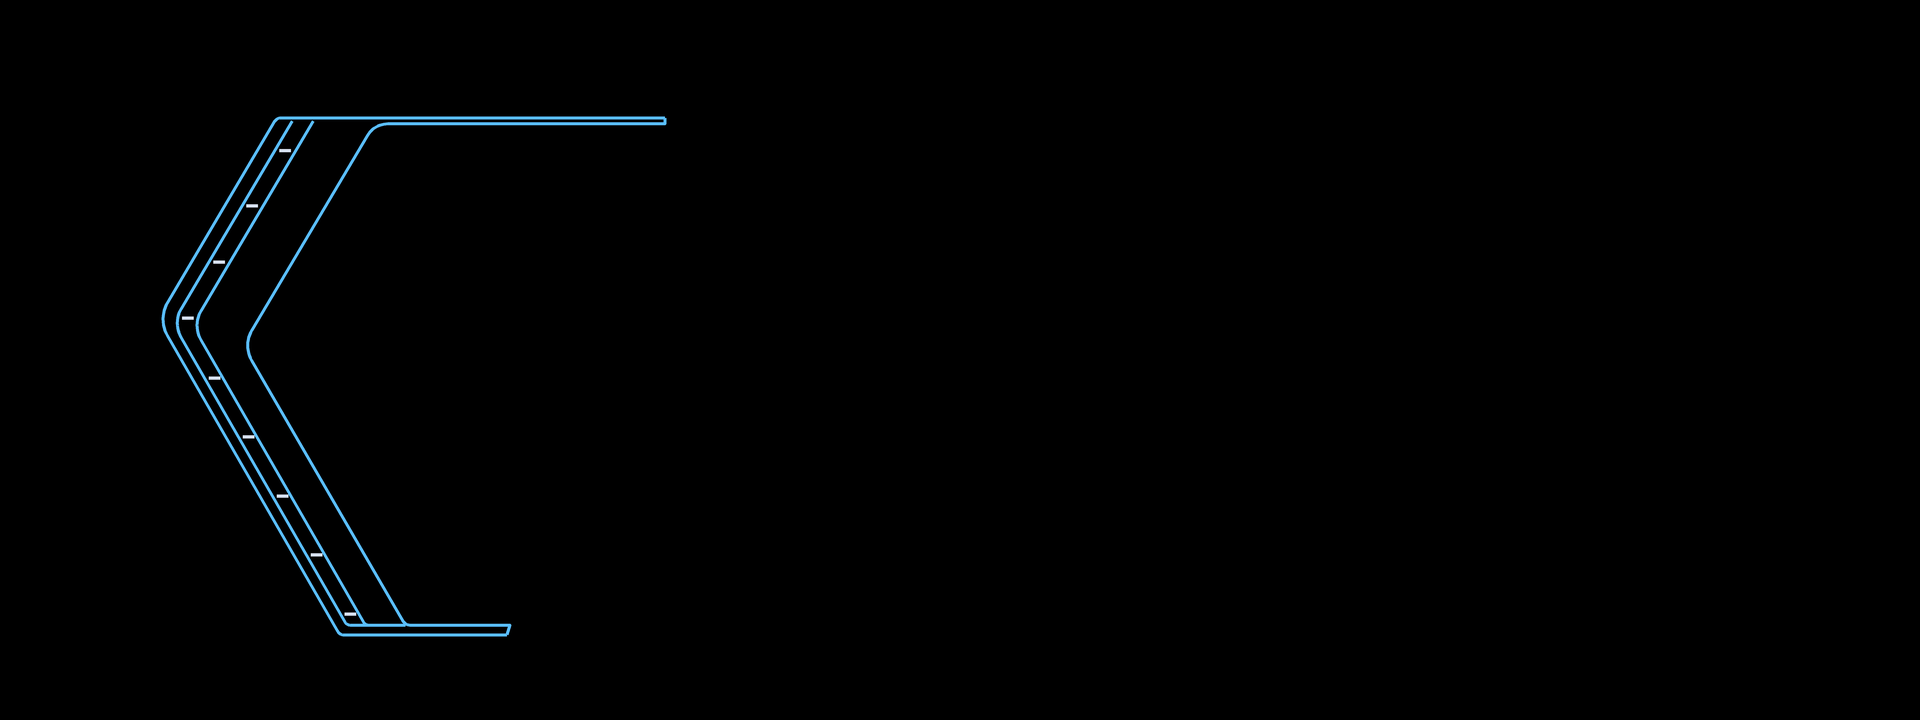
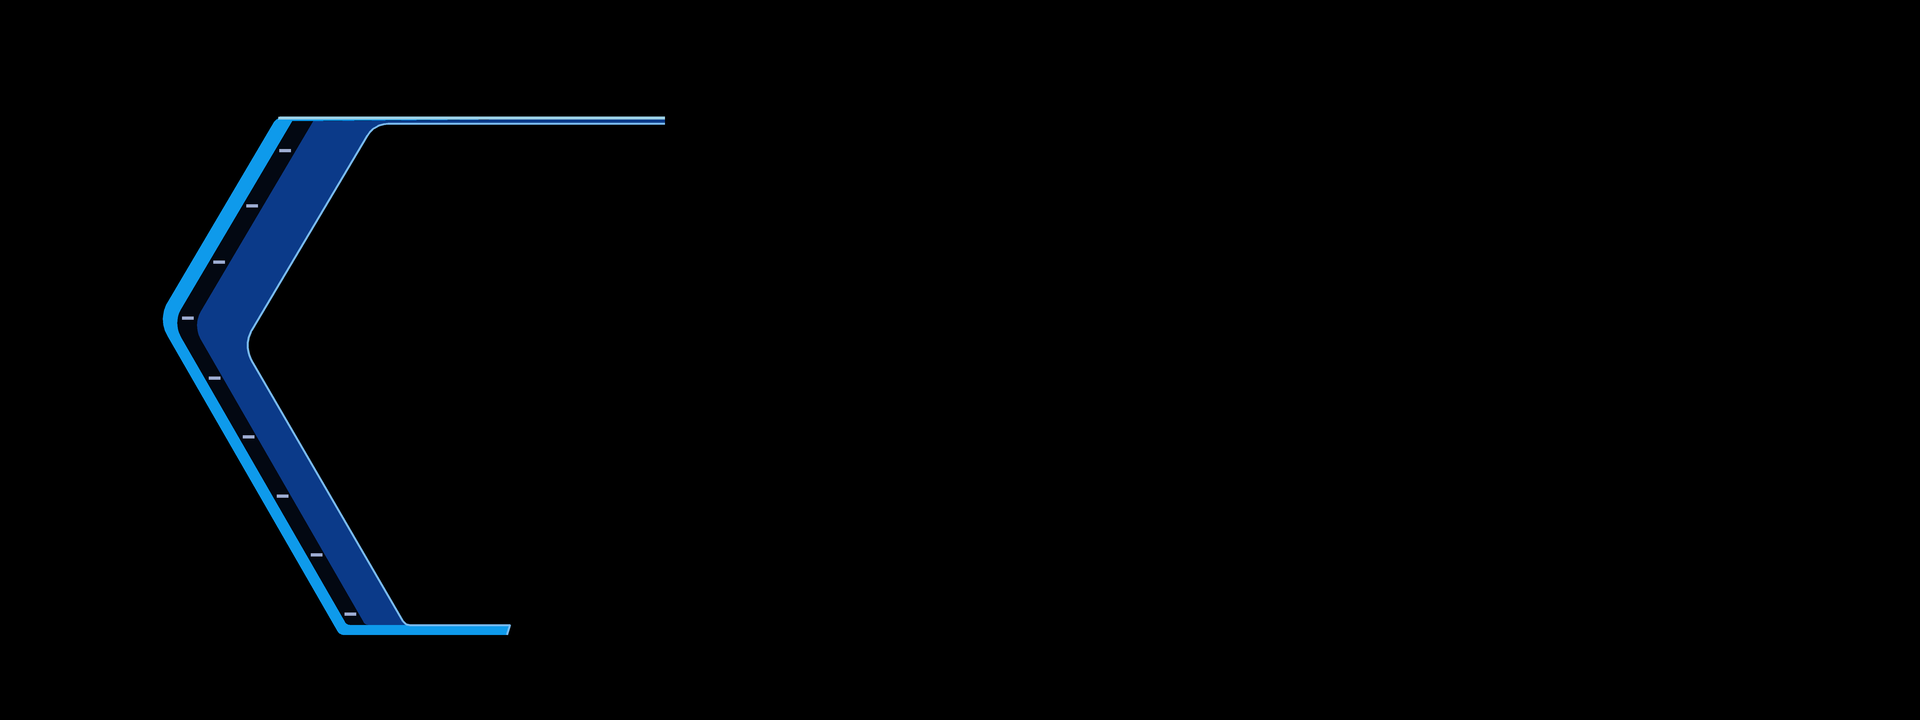
cluster: ID8-A left bracket: static colours sampled on the photo (stripe, gap, band, lines, marks)
Claude-Session: https://claude.ai/code/session_01APCM7bQyWwkFmahRh5zUds

Changed region(s): [[0.0625, 0.1528, 0.3438, 0.8861]]

diff --git a/cluster/tools/gen_static.py b/cluster/tools/gen_static.py
@@ -92,15 +92,37 @@ def tick_rects(cfg):
     return out
 
 
+def bracket_zones(cfg, el):
+    """A bracket's zones as polygons (px): the whole bracket, outer profile to the fill track's edge, and outer profile
+    to the parallel. Each runs down the outer profile, back up its inner line through the foot's end cut, and closes
+    along the top line."""
+    P = lambda k: fillet_polyline(to_px(cfg, el[k]))
+    out = P('outline')
+    end = [(el['inner'][-2][0] * cfg['grid'][0], el['inner'][-2][1] * cfg['grid'][1])]     # the foot's upper end
+    zone = lambda k: out + end + P(k)[::-1]                # closes back along the top line
+    return zone('inner'), zone('band'), zone('parallel')
+
+
 def build_static(cfg):
-    """The static layer, RGBA at grid size. So far only the outlines are drawn (the first step: geometry)."""
+    """The static layer, RGBA at grid size: each bracket filled zone by zone (band, gap, stripe), then its lines and marks."""
     W, H = cfg['grid']
     img = Image.new('RGBA', (W * SS, H * SS), (0, 0, 0, 255))
     d = ImageDraw.Draw(img)
-    for poly in outlines(cfg).values():
-        d.line([(x * SS, y * SS) for x, y in poly], fill=(90, 190, 255, 255), width=3 * SS, joint='curve')
-    for x0, y0, x1, y1 in tick_rects(cfg):
-        d.rectangle([x0 * SS, y0 * SS, x1 * SS, y1 * SS], fill=(215, 225, 240, 255))
+    sc = lambda poly: [(x * SS, y * SS) for x, y in poly]
+    for el in cfg['elements'].values():
+        col = el.get('colors')
+        if not col or 'band' not in el:
+            continue
+        whole, to_band, to_par = bracket_zones(cfg, el)
+        d.polygon(sc(whole), fill=tuple(col['band']))
+        d.polygon(sc(to_band), fill=tuple(col['gap']))
+        d.polygon(sc(to_par), fill=tuple(col['stripe']))
+        out = fillet_polyline(to_px(cfg, el['outline']))
+        top = [p for p in out if p[1] <= out[0][1] + 0.5]                       # the top line (level part)
+        d.line(sc(top), fill=tuple(col['top_line']), width=3 * SS)
+        d.line(sc(fillet_polyline(to_px(cfg, el['inner']))[1:]), fill=tuple(col['inner_line']), width=2 * SS, joint='curve')
+        for x0, y0, x1, y1 in tick_rects(cfg):
+            d.rectangle([x0 * SS, y0 * SS, x1 * SS, y1 * SS], fill=tuple(col['tick']))
     return img.resize((W, H), Image.LANCZOS)
 
 
